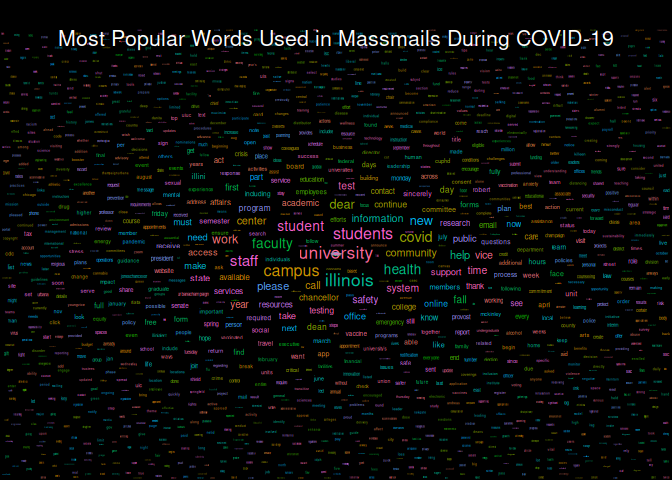
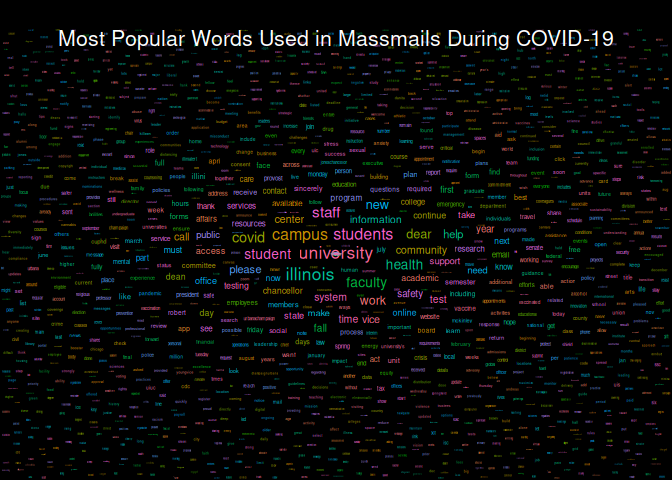
Re-build README.Rmd and Graphs

Changed region(s): [[0.0, 0.0625, 1.0, 1.0]]

diff --git a/README.md b/README.md
@@ -18,7 +18,7 @@ The archive may be viewed here:
 
 <https://massmail.illinois.edu/massmailArchive>
 
-Data has **2005** observations and **7** variables:
+Data has **2006** observations and **7** variables:
 
 - `datetime`: Date and time when the email was sent, as an ISO 8601
   timestamp carrying the Urbana-Champaign offset,
@@ -223,7 +223,7 @@ head(most_popular_words, 10) %>%
 | campus      | 1978 |
 | illinois    | 1964 |
 | student     | 1443 |
-| faculty     | 1283 |
+| faculty     | 1287 |
 | health      | 1211 |
 | community   | 1189 |
 | information | 1160 |
